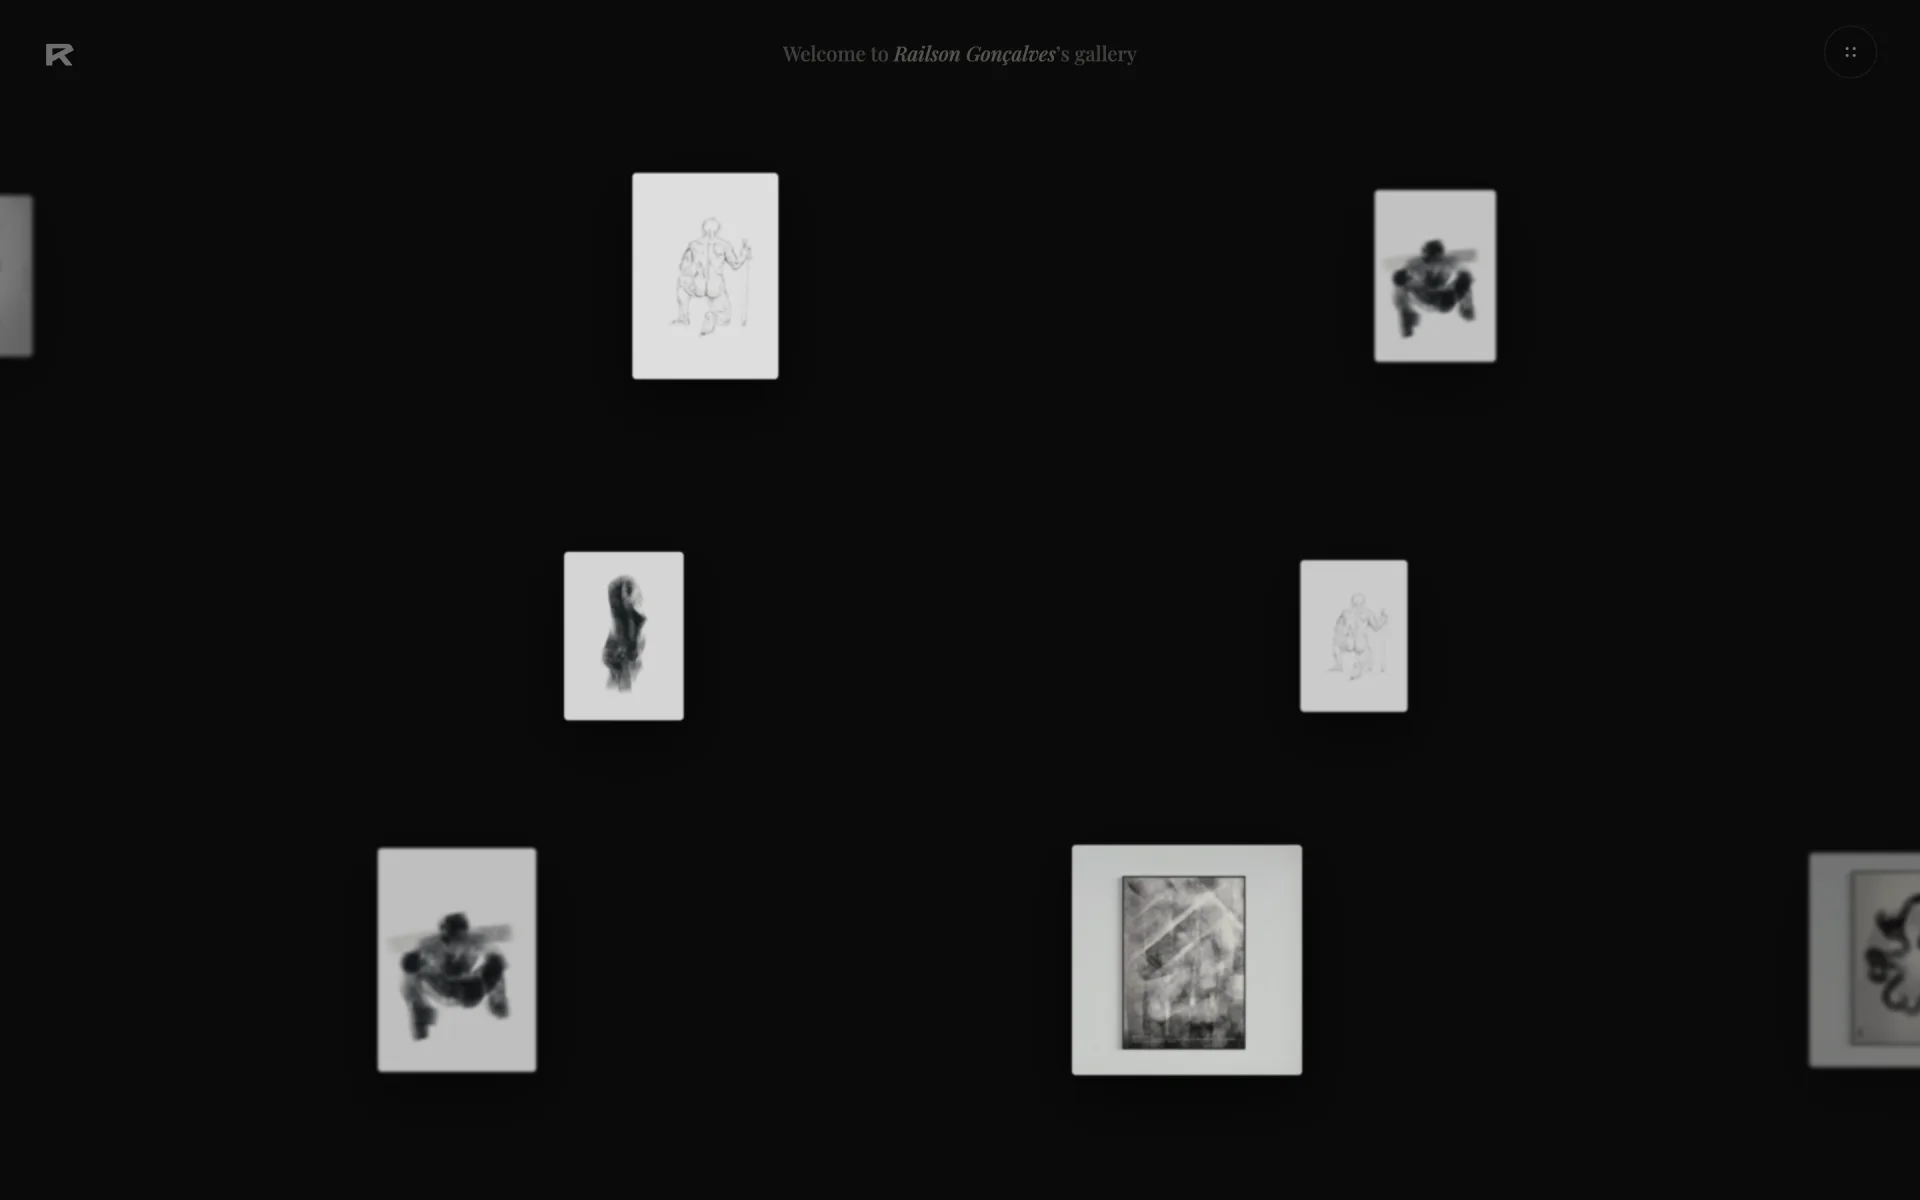
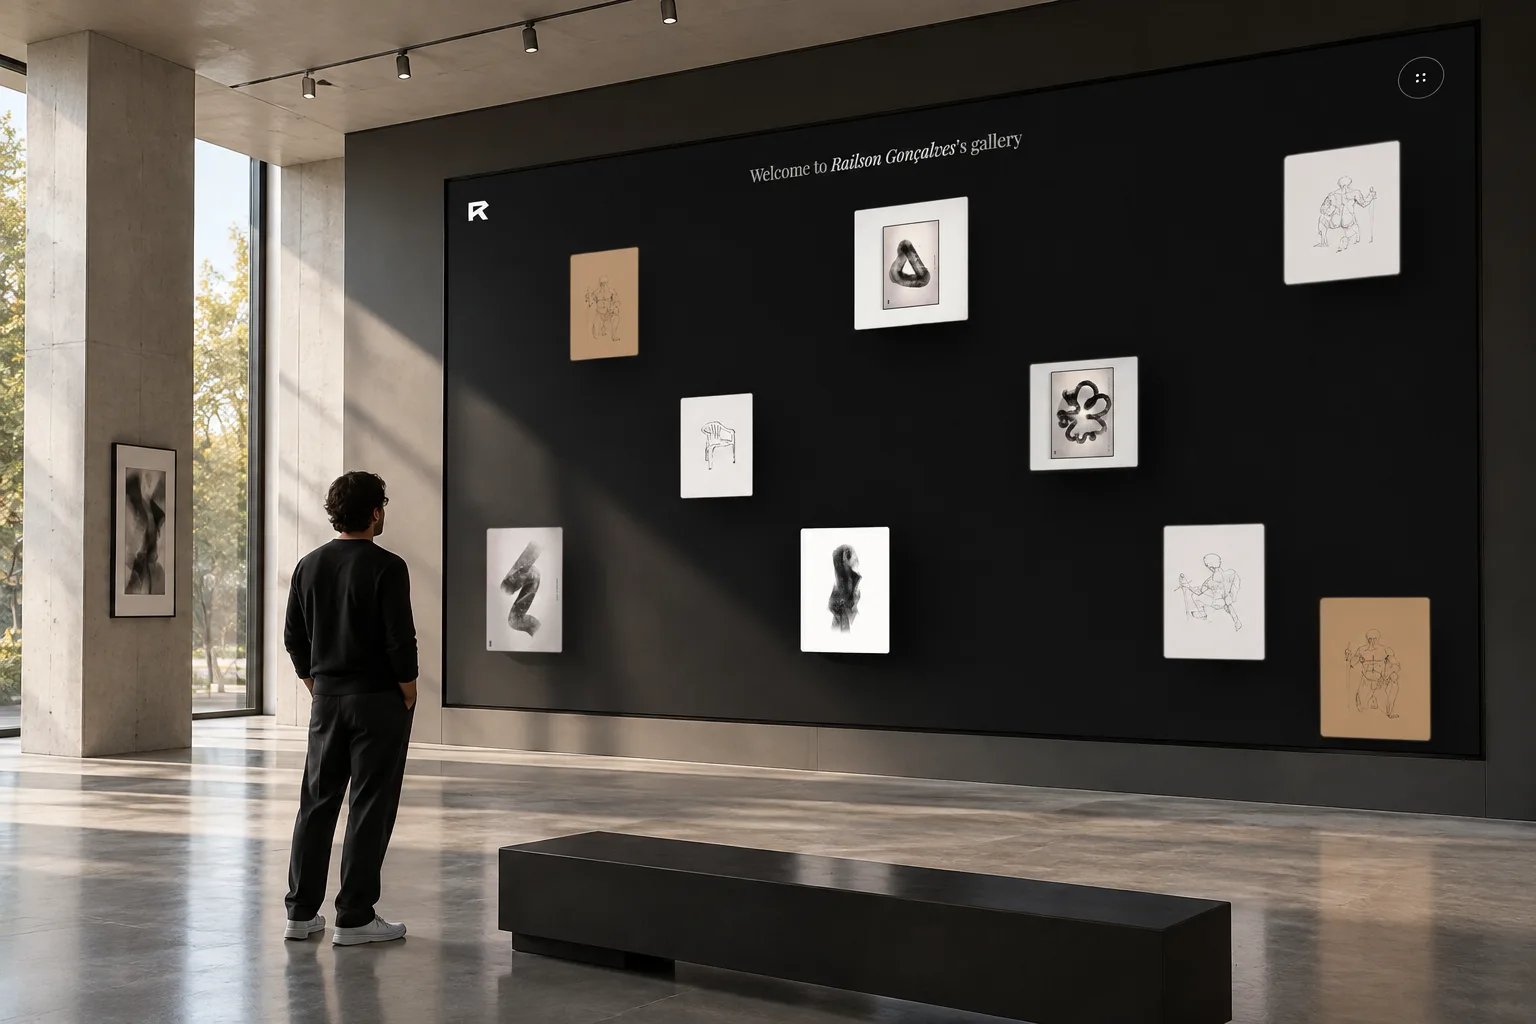
Feat(work): new RaigonOS cover and living-room shot

diff --git a/index.html b/index.html
@@ -52,7 +52,7 @@
           </header>
 
           <figure class="case-cover">
-            <img src="assets/images/projects/raigonos/cover.webp" width="1920" height="1200" alt="RaigonOS public gallery: artworks floating on a dark wall">
+            <img src="assets/images/projects/raigonos/cover.webp" width="1536" height="1024" alt="RaigonOS public gallery shown on a large wall screen in an exhibition space">
           </figure>
 
           <dl class="case-meta">
@@ -85,6 +85,9 @@
               <figure><img src="assets/images/projects/raigonos/artwork.webp" width="1920" height="1200" loading="lazy" alt="Artwork detail page with title, year and description"></figure>
               <figure class="tall"><img src="assets/images/projects/raigonos/mobile.webp" width="780" height="1688" loading="lazy" alt="Collections page on a phone"></figure>
             </div>
+            <figure class="span-2">
+              <img src="assets/images/projects/raigonos/living-room.webp" width="1536" height="1024" loading="lazy" alt="RaigonOS public gallery on a living-room TV">
+            </figure>
           </div>
         </div>
       </article>
